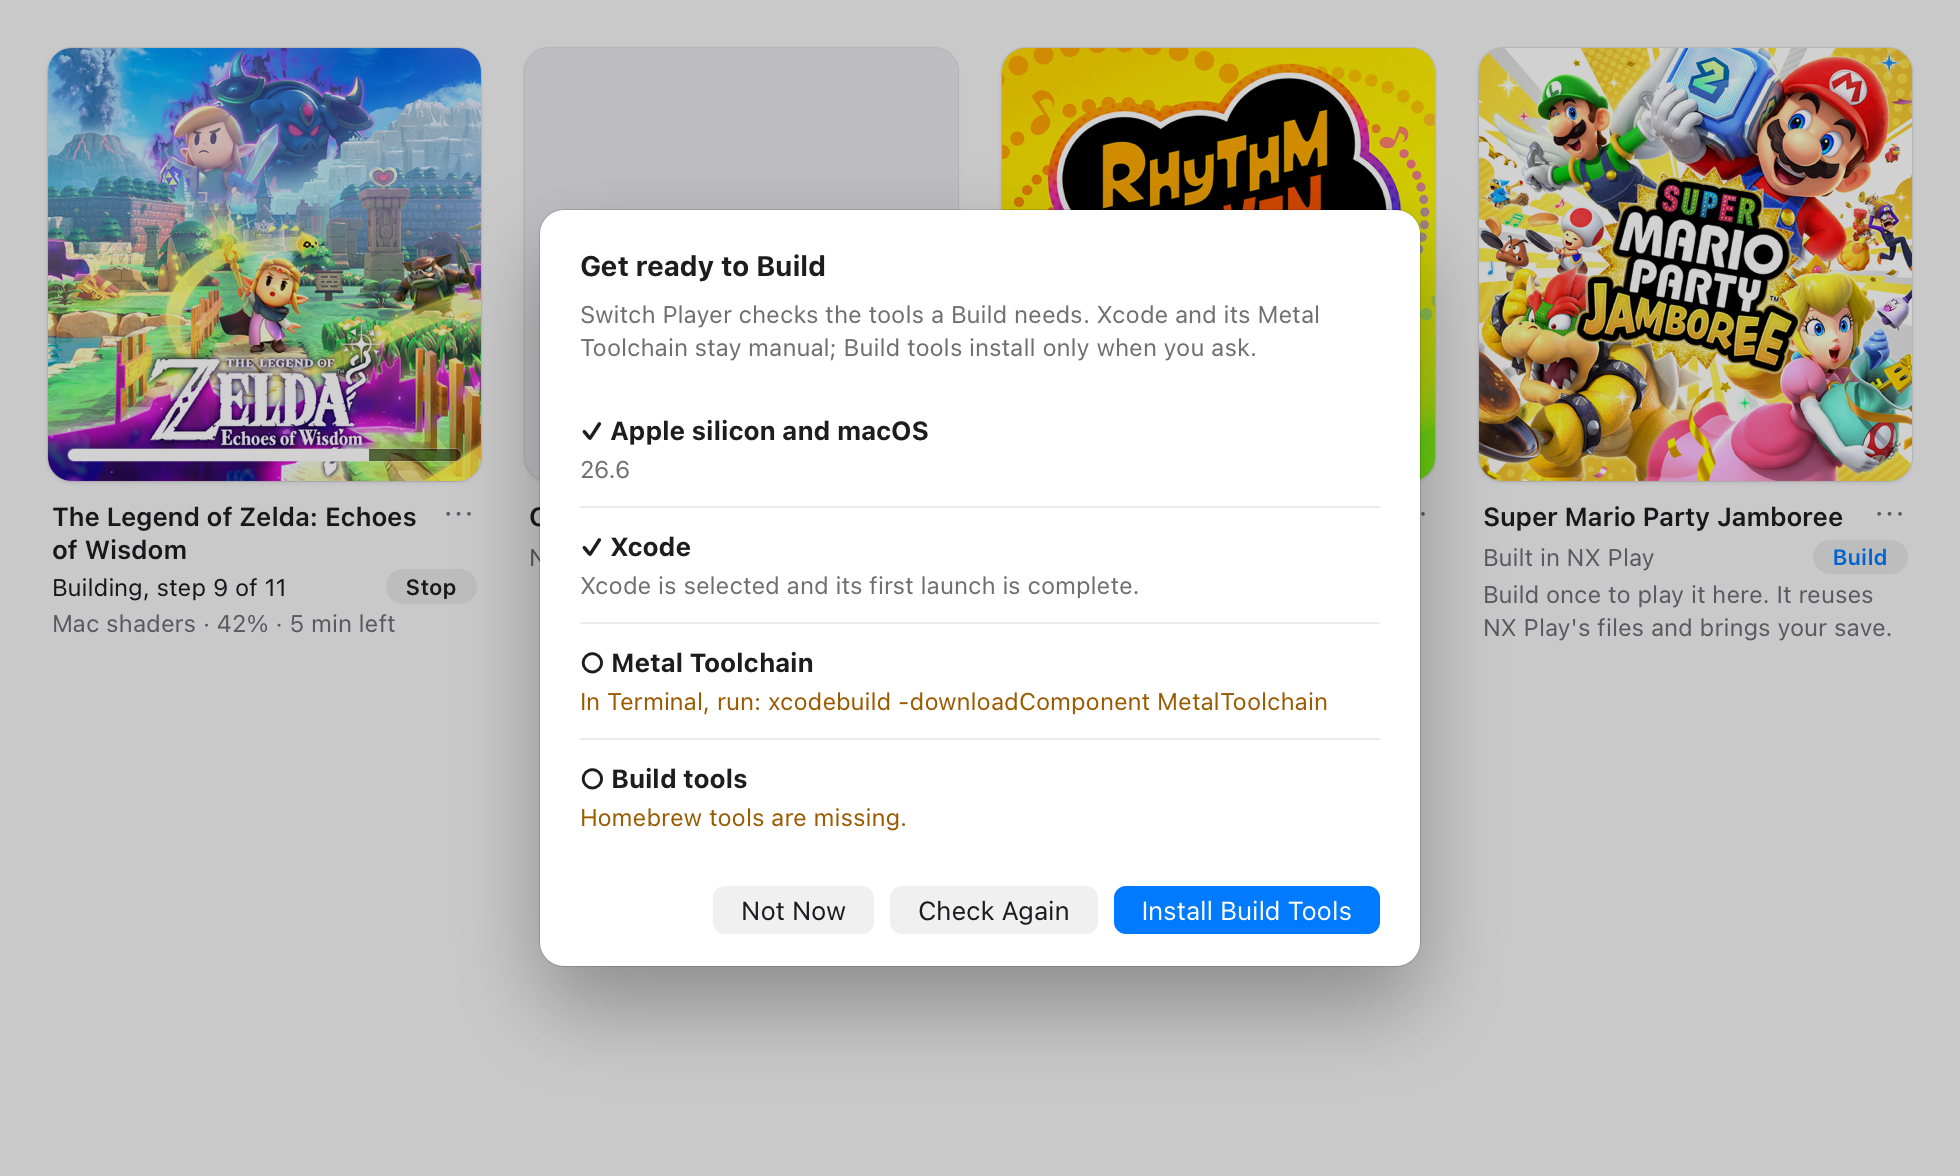
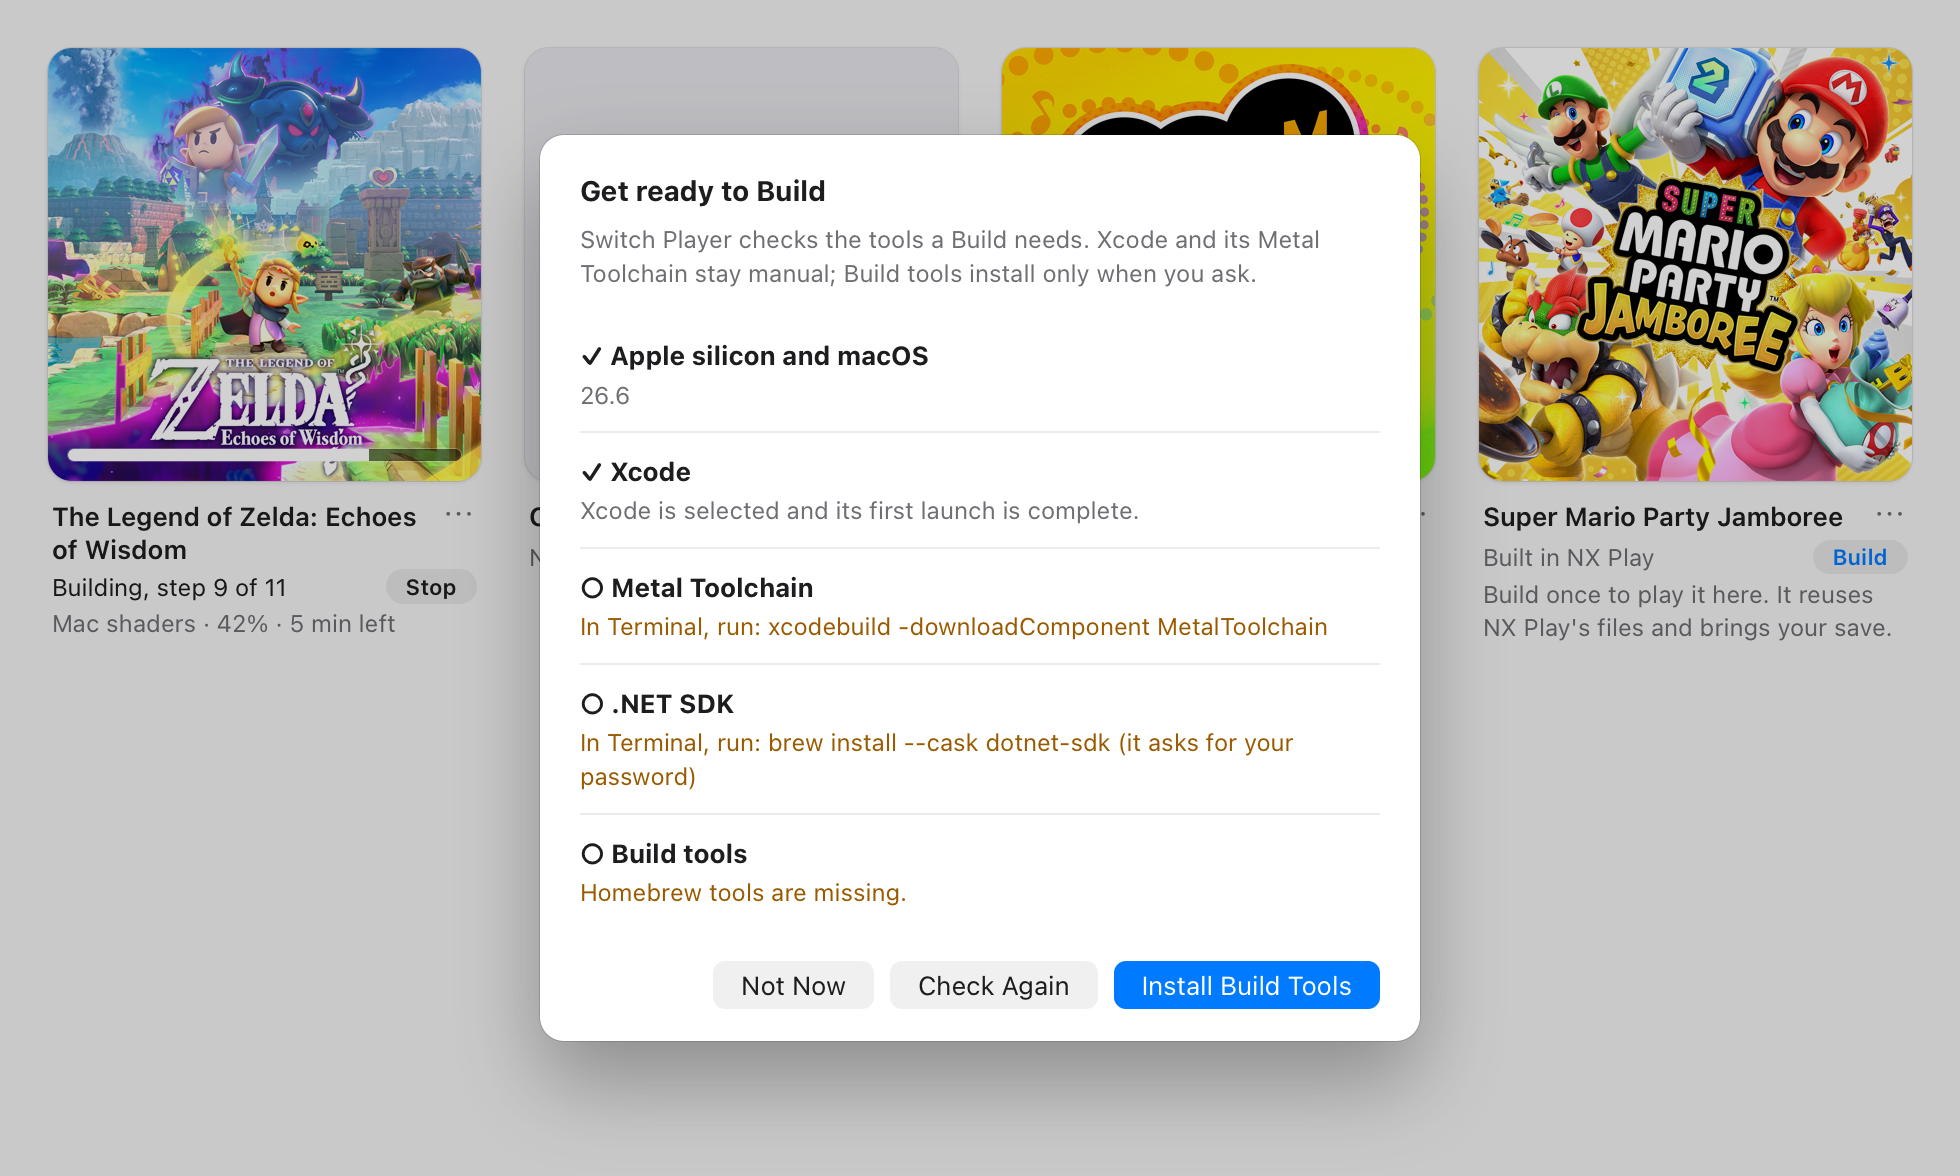
Retake the Build Setup screenshot with the .NET SDK line
Build Setup gained a .NET SDK line when its cask stopped installing from the
button (#32), so the README's setup.png was one line short. Retaken from the
page preview's readme scenario at the same size (a 980 px window at 2x), and
the caption now names the .NET SDK.

Changed region(s): [[0.249, 0.0918, 0.7469, 0.949]]

diff --git a/README.md b/README.md
@@ -30,7 +30,7 @@ Switch Player doesn't include any games or keys.
 4. Click **Build** beside a game. The first Build also downloads nxnative and installs the Python packages it needs, so it takes a little longer.
 5. When the game says **Ready**, click its artwork to play.
 
-![Build Setup, with Xcode ready and the Metal Toolchain and Build tools still to do](docs/images/setup.png)
+![Build Setup, with Xcode ready and the Metal Toolchain, .NET SDK and Build tools still to do](docs/images/setup.png)
 
 Closing the window doesn't stop a Build. Quitting Switch Player asks first.
 
